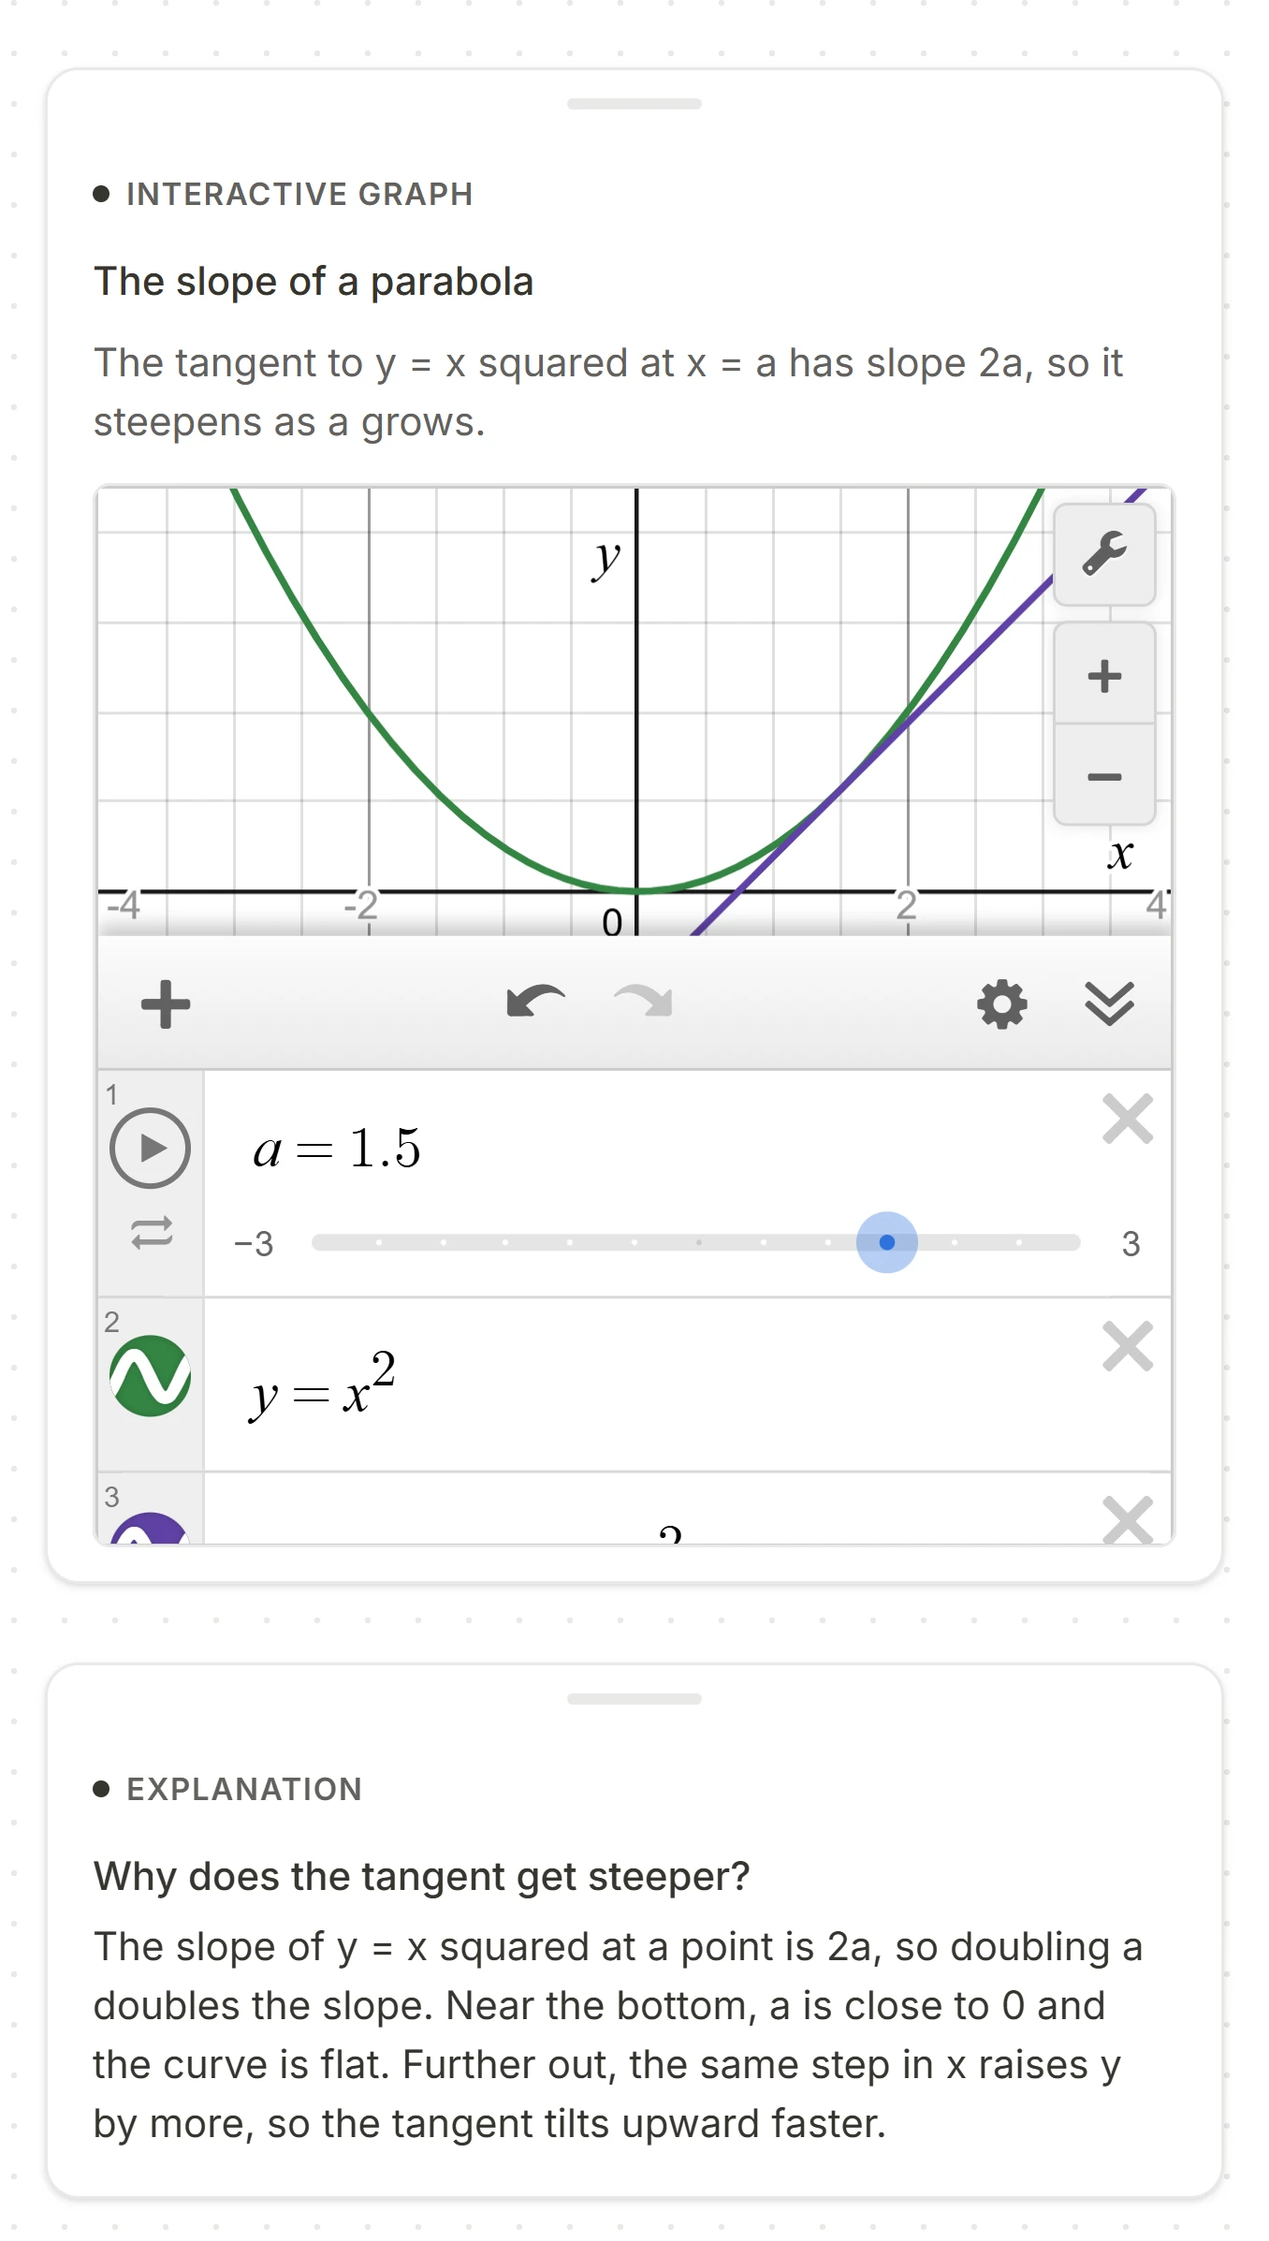
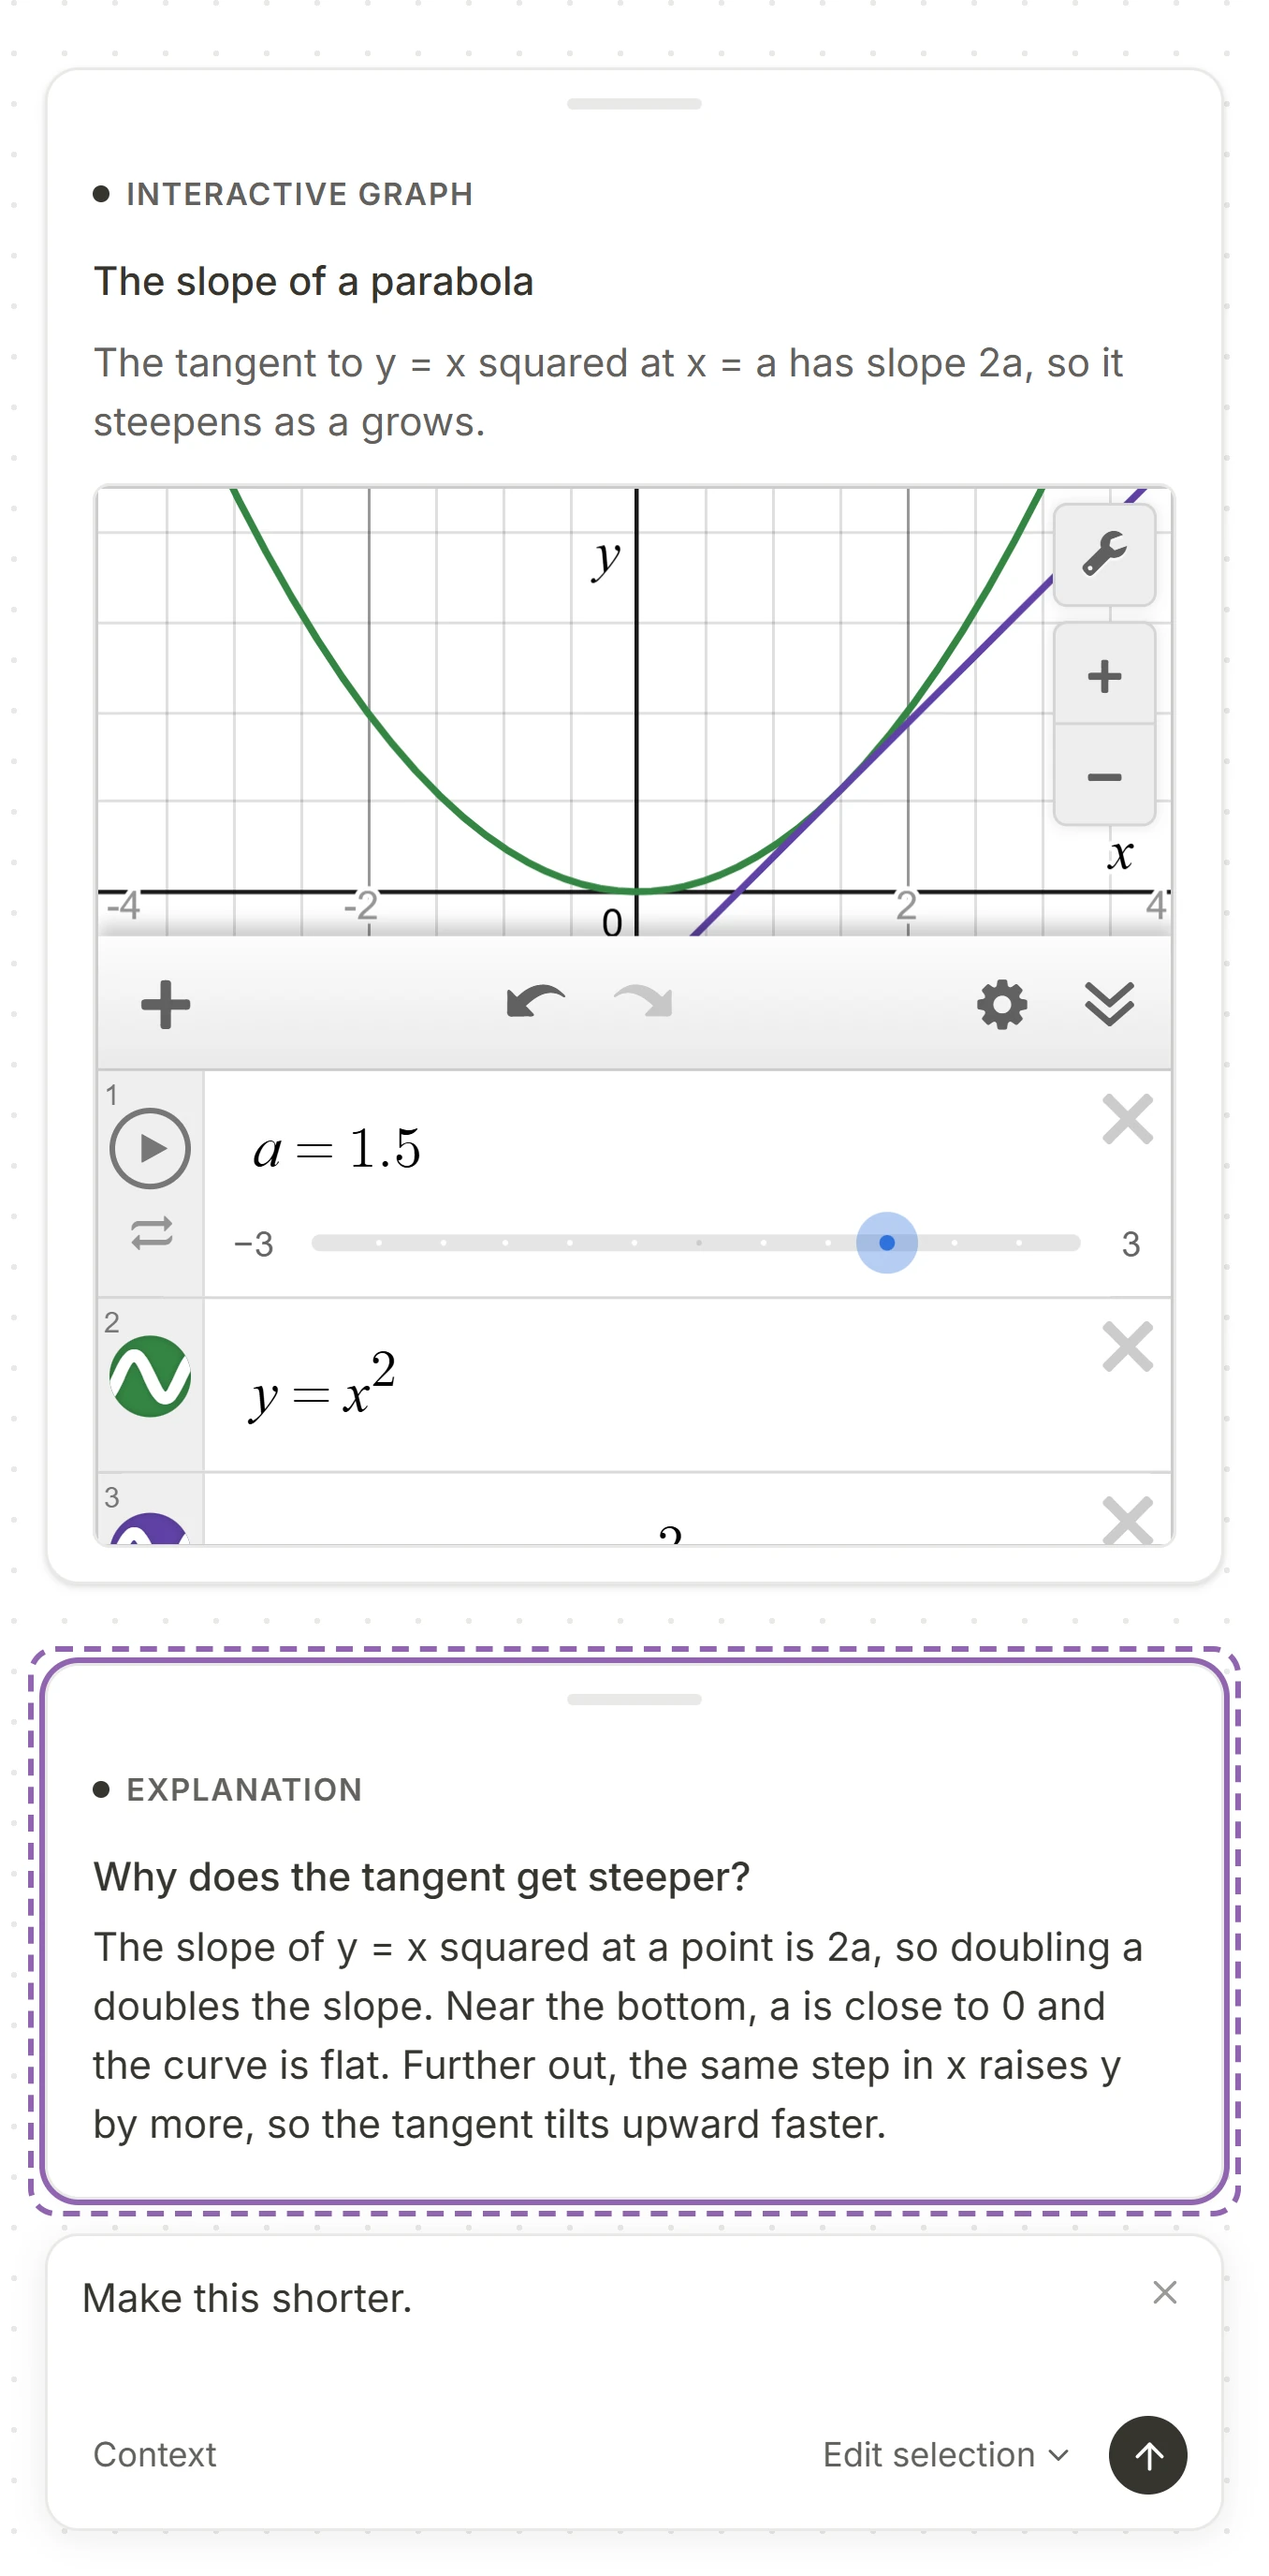
Features: Ctrl + K entry explains both Edit selection and Explain selection; the After picture shows the explanation card selected with the Ctrl + K box on Edit selection (nothing submitted)

diff --git a/packages/web/src/landing/features-data.js b/packages/web/src/landing/features-data.js
@@ -17,7 +17,7 @@ export const FEATURES = [
   { id: '11-rabbit-holes', title: 'Rabbit Holes', subtitle: 'Give a related question its own space.', description: 'Branch into another question while keeping a path back to where you started.', alt: "The Rabbit Hole \"Why does regularization help?\", opened from the topic \"Overfitting\", with a training and validation loss graph and a short explanation.", published: true },
   { id: '12-bidirectional-links', title: 'Bidirectional links', subtitle: 'Follow connections in both directions.', description: 'Connect related cards and canvases so you can navigate between them.', alt: 'Related learning items showing a link and its reciprocal reference.', published: true },
   { id: '13-ask-about-selection', title: 'Ask about a selection', subtitle: 'Ask about exactly what you selected.', description: 'Bring a specific passage or piece of code into your question.', alt: 'Selected attention code attached to a question in the chat composer.', published: true },
-  { id: '14-edit-with-ai', title: 'Edit with AI [Ctrl + K]', subtitle: 'Change a card with an instruction.', description: 'Select a card, press Ctrl + K and say what to change. Preview the result, then accept it.', alt: "Before: an interactive graph of a parabola and its tangent selected, with the Ctrl + K box open on Explain selection and the question 'Why does the tangent get steeper as a grows?'. After: the explanation card that answers it, below the graph.", published: true },
+  { id: '14-edit-with-ai', title: 'Edit with AI [Ctrl + K]', subtitle: 'Change a card with an instruction.', description: 'Select a card and press Ctrl + K. Choose Edit selection to rewrite the card with an instruction, then preview and accept the change. Choose Explain selection to ask a question and get the answer as a new card.', alt: "Before: an interactive graph of a parabola and its tangent selected, with the Ctrl + K box open on Explain selection and the question 'Why does the tangent get steeper as a grows?'. After: the explanation card that answers it, below the graph, now selected with the Ctrl + K box open on Edit selection and the instruction 'Make this shorter.'", published: true },
   { id: '15-source-search', title: 'Source search', subtitle: 'Find sources without leaving your canvas.', description: 'Search YouTube, arXiv and Wikipedia and add useful results to your work.', alt: 'Source search with arXiv selected and research-paper results.', published: false },
   { id: '16-sharing-forking', title: 'Sharing & forking', subtitle: 'Share your work. Let others build on it.', description: 'Share a canvas and let someone continue exploring in their own copy.', alt: "A shared Rabbit Hole canvas on plate tectonics with its Fork action beside the fork, opened as its own canvas that says it was forked from the original.", published: true },
   { id: '17-image-generation', title: 'Image generation & editing', subtitle: 'Create and revise visuals on your canvas.', description: 'Generate an image from a prompt or edit an existing image.', alt: 'An original image and its edited version shown in Rabbit Hole cards.', published: false },
